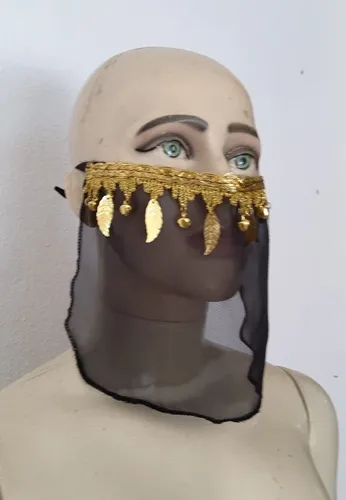
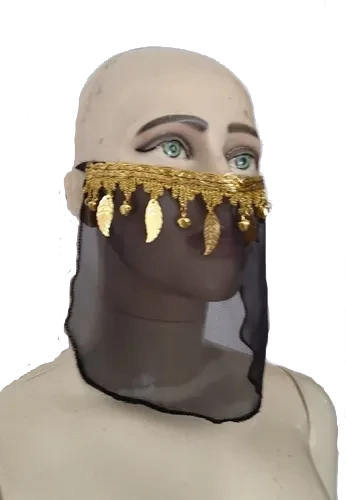
a

diff --git a/home/index.html b/home/index.html
@@ -15,49 +15,6 @@
     </header>
 
     <section>
-        <div class="imagem">
-            <figure>
-                <img src="danca.jpg" alt="Mulher com roupa de dança" onmouseenter="mensagem()"> 
-                <div class="preco">R$24,99</div>   
-                <figcaption id="fig">
-                    <h1>Conjunto 3 Peças</h1>
-                    <h2>Descrição</h2>
-                    <P>1 Top Vermelho <br>
-                       1 Lenço Vermelho <br>
-                       1 Saia Vermelha </P>
-                    <hr> 
-                    <p>P: 32-34 <br>
-                       M: 34-36 <br>
-                       G: 38-40</p>
-
-                    <h2>Cores</h2>
-                    <p><label>Vermelho </label> 
-                        <input id="P"type="button" value="P"> 
-                        <input id="P"type="button" value="M"> 
-                        <input id="P"type="button" value="G"><br></p>
-
-                    <p> <label>Azul </label> 
-                        <input id="P"type="button" value="P"> 
-                        <input id="P"type="button" value="M"> 
-                        <input id="P"type="button" value="G"> <br></p>
-
-                    <p> <label>Verde </label> 
-                        <input id="P"type="button" value="P"> 
-                        <input id="P"type="button" value="M"> 
-                        <input id="P"type="button" value="G"></p>
-                        
-                    <p> <label>Rosa </label> 
-                        <input id="P"type="button" value="P"> 
-                        <input id="P"type="button" value="M"> 
-                        <input id="P"type="button" value="G"></p>
-                    
-                    
-                    <footer><p class="ml">Ver mais em <a href="d">Mercado Livre</a></p></footer>
-                </figcaption>
-                    
-
-                </figure>
-        </div>
 
         <div class="imagem">
             <figure>
@@ -71,23 +28,23 @@
                     <p>Parte com pedras: 56 cm</p>
 
                     <h2>Cores</h2>
-                    <p> <input id="G" type="button" value="Preto"> <input id="G" type="button" value="Violeta"></p>
-                    <p> <input id="G" type="button" value="Amarelo"> <input id="G" type="button" value="Azul Claro"></p>
-                    <p> <input id="G" type="button" value="Azul"> <input id="G" type="button" value="Fúcsia"></p>
-                    <p> <input id="G" type="button" value="Branco"></p>
-                    <p> <input id="G" type="button" value="Rosa"></p>
-                    <p> <input id="G" type="button" value="Verde">  </p>
-                    <p> <input id="G" type="button" value="Vermelho">  </p>
+                    <p> <a href="https://pag.ae/7X19yrSum/button" target="_blank"><input id="G" type="button" value="Preto"></a></p>
+                    <p> <a href="https://pag.ae/7X1EmeZNG/button" target="_blank"><input id="G" type="button" value="Amarelo"></a></p>
+                    <p> <a href="https://pag.ae/7X1Eoo7xN/button" target="_blank"><input id="G" type="button" value="Azul"></a></p>
+                    <p> <a href="https://pag.ae/7X1EpETes/button" target="_blank"><input id="G" type="button" value="Branco"></a></p>
+                    <p> <a href="https://pag.ae/7X1Er7ksN/button" target="_blank"><input id="G" type="button" value="Rosa"></a></p>
+                    <p> <a href="https://pag.ae/7X1ErLX2N/button" target="_blank"><input id="G" type="button" value="Verde"></a>  </p>
+                    <p> <a href="https://pag.ae/7X1EsrQ2M/button" target="_blank"><input id="G" type="button" value="Vermelho"></a>  </p>
                     
 
-                    <footer><p class="ml">Ver mais em <a href="https://produto.mercadolivre.com.br/MLB-1693415167-lencos-de-danca-do-ventre-com-moedas-_JM?searchVariation=66694244199#searchVariation=66694244199&position=13&type=item&tracking_id=7cc0730e-0491-443e-889c-cca99fd72312" target="_blank">Mercado Livre</a></p></footer>
+                    <footer><p class="ml">Ver mais em <a href="https://produto.mercadolivre.com.br/MLB-1693413286-lenco-danca-do-ventre-de-quadril-com-pedras-moedas-promoco-_JM?attributes=SIZE%3Aw5puaWNv%2CCOLOR_SECONDARY_COLOR%3AUHJldG8%3D&quantity=1" target="_blank">Mercado Livre</a></p></footer>
                 </figcaption>
                 </figure>
         </div>
 
         <div class="imagem">
             <figure>
-                <img src="imagens/top1.webp" alt="Mulher com roupa de dança">
+                <img src="imagens/top.webp" alt="Mulher com roupa de dança">
                 <div class="preco">R$39,00</div>   
                 <figcaption>
                     <h1>Top Cropped Frente Única</h1>
@@ -98,24 +55,24 @@
 
                     <h2>Cores</h2>
                     <p><label>Vermelho</label> 
-                        <input id="P"type="button" value="P"> 
-                        <input id="P"type="button" value="M"> 
-                        <input id="P"type="button" value="G"><br></p>
+                        <a href="https://pag.ae/7X1EDRH9r/button" target="_blank"><input id="P"type="button" value="P"></a> 
+                        <a href="https://pag.ae/7X1EEvksM/button" target="_blank"><input id="P"type="button" value="M"></a> 
+                        <a href="https://pag.ae/7X1EF6p9p/button" target="_blank"><input id="P"type="button" value="G"></a></p>
 
                     <p> <label>Azul </label> 
-                        <input id="P"type="button" value="P"> 
-                        <input id="P"type="button" value="M"> 
-                        <input id="P"type="button" value="G"> <br></p>
+                        <a href="https://pag.ae/7X1EF_r2N/button" target="_blank"><input id="P"type="button" value="P"></a> 
+                        <a href="https://pag.ae/7X1EGFD64/button" target="_blank"><input id="P"type="button" value="M"></a> 
+                        <a href="https://pag.ae/7X1EHgXNN/button" target="_blank"><input id="P"type="button" value="G"></a></p>
 
                     <p> <label>Preto </label> 
-                        <input id="P"type="button" value="P"> 
-                        <input id="P"type="button" value="M"> 
-                        <input id="P"type="button" value="G"></p>
+                        <a href="https://pag.ae/7X1EJ_jVs/button" target="_blank"><input id="P"type="button" value="P"></a> 
+                        <a href="https://pag.ae/7X1ELT7xN/button" target="_blank"><input id="P"type="button" value="M"></a> 
+                        <a href="https://pag.ae/7X1EMpY9n/button" target="_blank"><input id="P"type="button" value="G"></a></p>
                         
                     <p> <label>Rosa </label> 
-                        <input id="P"type="button" value="P"> 
-                        <input id="P"type="button" value="M"> 
-                        <input id="P"type="button" value="G"></p>
+                        <a href="https://pag.ae/7X1ENcXHH/button" target="_blank"><input id="P"type="button" value="P"></a> 
+                        <a href="https://pag.ae/7X1ENZrYG/button" target="_blank"><input id="P"type="button" value="M"></a> 
+                        <a href="https://pag.ae/7X1EPtWcM/button" target="_blank"><input id="P"type="button" value="G"></a></p>
                         <footer><p class="ml">Ver mais em <a href="https://produto.mercadolivre.com.br/MLB-1734870355-top-croped-frente-unica-danca-do-ventre-com-moedas-_JM?searchVariation=70003337722#searchVariation=70003337722&position=15&type=item&tracking_id=3752a5a8-c23b-4f1f-87a6-e8598c89b2be" target="_blank">Mercado Livre</a></p></footer>
                 </figcaption>
                 </figure>
@@ -123,7 +80,7 @@
 
         <div class="imagem">
             <figure>
-                <img src="imagens/saia1.webp" alt="Mulher com roupa de dança" onmouseenter="mensagem2()">
+                <img src="imagens/saia.webp" alt="Mulher com roupa de dança" onmouseenter="mensagem2()">
                 <div class="preco">R$69,00</div>   
                 <figcaption id="fig2" >
                     <h1>Saia Duas Camadas</h1>
@@ -143,7 +100,7 @@
 
         <div class="imagem">
             <figure>
-                <img src="imagens/veu1.webp" alt="Mulher com roupa de dança">
+                <img src="imagens/veu.webp" alt="Mulher com roupa de dança">
                 <div class="preco">R$39,90</div>  
                
                 <figcaption>
@@ -185,7 +142,7 @@
 
         <div class="imagem">
             <figure>
-                <img src="imagens/lenco2a.webp" alt="Mulher com roupa de dança">
+                <img src="imagens/lenco2.webp" alt="Mulher com roupa de dança">
                 <div class="preco">R$55,00</div>   
                 <figcaption>
                     <h1>Lenço de Quadril </h1>
@@ -200,7 +157,7 @@
 
         <div class="imagem">
             <figure>
-                <img src="imagens/conjunto2a.webp" alt="Mulher com roupa de dança" onmouseenter="mensagem3()">
+                <img src="imagens/conjunto2.webp" alt="Mulher com roupa de dança" onmouseenter="mensagem3()">
                 <div class="preco">R$259,00</div>   
                 <figcaption id="fig3" >
                     <h1>Conjunto 4 Peças</h1>
@@ -219,7 +176,7 @@
 
         <div class="imagem">
             <figure>
-                <img src="imagens/conjunto3a.webp" alt="Mulher com roupa de dança" onmouseenter="mensagem4()"> 
+                <img src="imagens/conjunto3.webp" alt="Mulher com roupa de dança" onmouseenter="mensagem4()"> 
                 <div class="preco">R$139,00</div>   
                 <figcaption id="fig4" >
                     <h1>Conjunto top e saia</h1>
@@ -231,7 +188,10 @@
                         G: 44-46</p>
 
                     <h2>Cores</h2>
-                    <p><input id="G"type="button" value="Azul"><br></p>
+                    <p><label>Azul</label>
+                        <input id="P" type="button" value="P">
+                        <input id="P" type="button" value="M">
+                        <input id="P" type="button" value="G"></p>
                     <footer><p class="ml">Ver mais em <a href="https://produto.mercadolivre.com.br/MLB-1697910460-roupa-danca-ventre-top-e-saia-com-moedas-_JM#position=34&type=item&tracking_id=a6192006-1368-4d87-8040-9d3575680bab" target="_blank">Mercado Livre</a></p></footer>
                 </figcaption>
                 </figure>
@@ -239,7 +199,7 @@
 
         <div class="imagem">
             <figure>
-                <img src="imagens/lenco3a.webp" alt="Mulher com roupa de dança">
+                <img src="imagens/lenco3.webp" alt="Mulher com roupa de dança">
                 <div class="preco">R$09,99</div>   
                 <figcaption>
                     <h1>Véu de Rosto</h1>
@@ -255,7 +215,7 @@
 
         <div class="imagem">
             <figure>
-                <img src="imagens/conjunto4b.webp" alt="Mulher com roupa de dança" onmouseenter="mensagem5()">
+                <img src="imagens/conjunto4.webp" alt="Mulher com roupa de dança" onmouseenter="mensagem5()">
                 <div class="preco">R$139,00</div>   
                 <figcaption id="fig5" >
                     <h1>Conjunto 2 Peças</h1>
@@ -267,7 +227,10 @@
                        G: 44-46</p>
 
                     <h2>Cores</h2>
-                    <p><input id="G"type="button" value="Vermelho"><br></p>
+                    <p><label>Vermelho</label>
+                        <input id="P" type="button" value="P">
+                        <input id="P" type="button" value="M">
+                        <input id="P" type="button" value="G"></p>
                     <footer><p class="ml">Ver mais em <a href="https://produto.mercadolivre.com.br/MLB-1710840368-roupa-danca-do-ventre-fantasia-_JM#position=26&type=item&tracking_id=f282945f-406f-4092-bafe-e18298c40751" target="_blank">Mercado Livre</a></p></footer>
                 </figcaption>
                 </figure>
@@ -275,7 +238,7 @@
 
         <div class="imagem">
             <figure>
-                <img src="imagens/conjunto5a.webp" alt="Mulher com roupa de dança" onmouseenter="mensagem6()">
+                <img src="imagens/conjunto5.webp" alt="Mulher com roupa de dança" onmouseenter="mensagem6()">
                 <div class="preco">R$169,00</div>  
                 <figcaption id="fig6" >
                     <h1>Conjunto 3 Peças</h1>
@@ -288,7 +251,15 @@
 
                     <h2>Cores</h2>
                     
-                    <p><input id="G"type="button" value="Azul"><br></p>
+                    <p><label>Azul</label>
+                        <input id="P" type="button" value="P">
+                        <input id="P" type="button" value="M">
+                        <input id="P" type="button" value="G"></p>
+                    
+                    <p><label>Preto</label>
+                        <input id="P" type="button" value="P">
+                        <input id="P" type="button" value="M">
+                        <input id="P" type="button" value="G"></p>
                 <footer><p class="ml">Ver mais em <a href="https://produto.mercadolivre.com.br/MLB-1717966405-roupa-danca-do-ventre-traje-fantasia-arabe-com-moedas--_JM?searchVariation=68171689644#searchVariation=68171689644&position=22&type=item&tracking_id=23baa0d6-4f64-4569-a609-986f1ab66d36" target="_blank">Mercado Livre</a></p></footer>
 
                 </figcaption>
